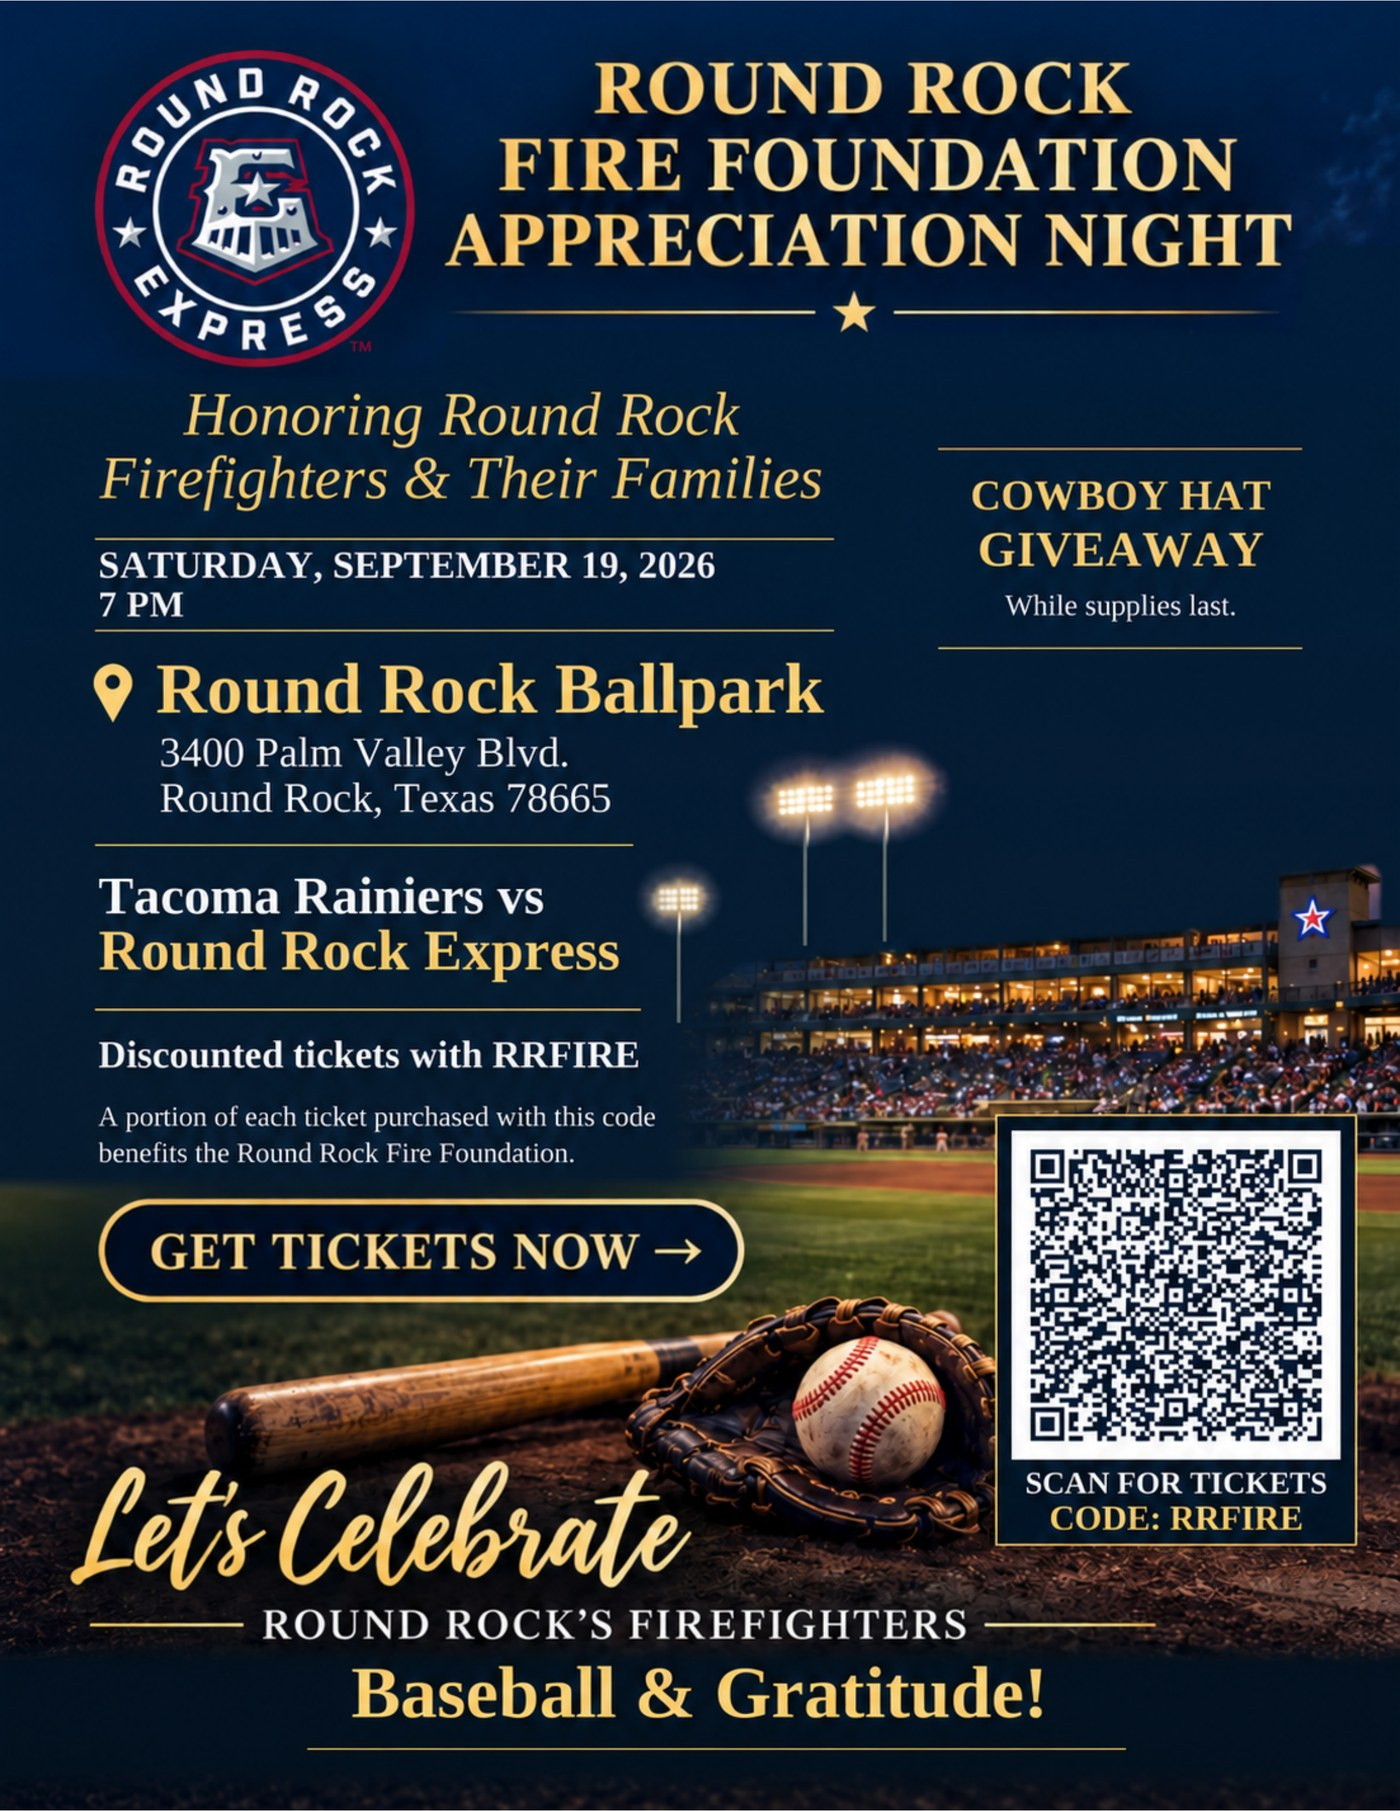
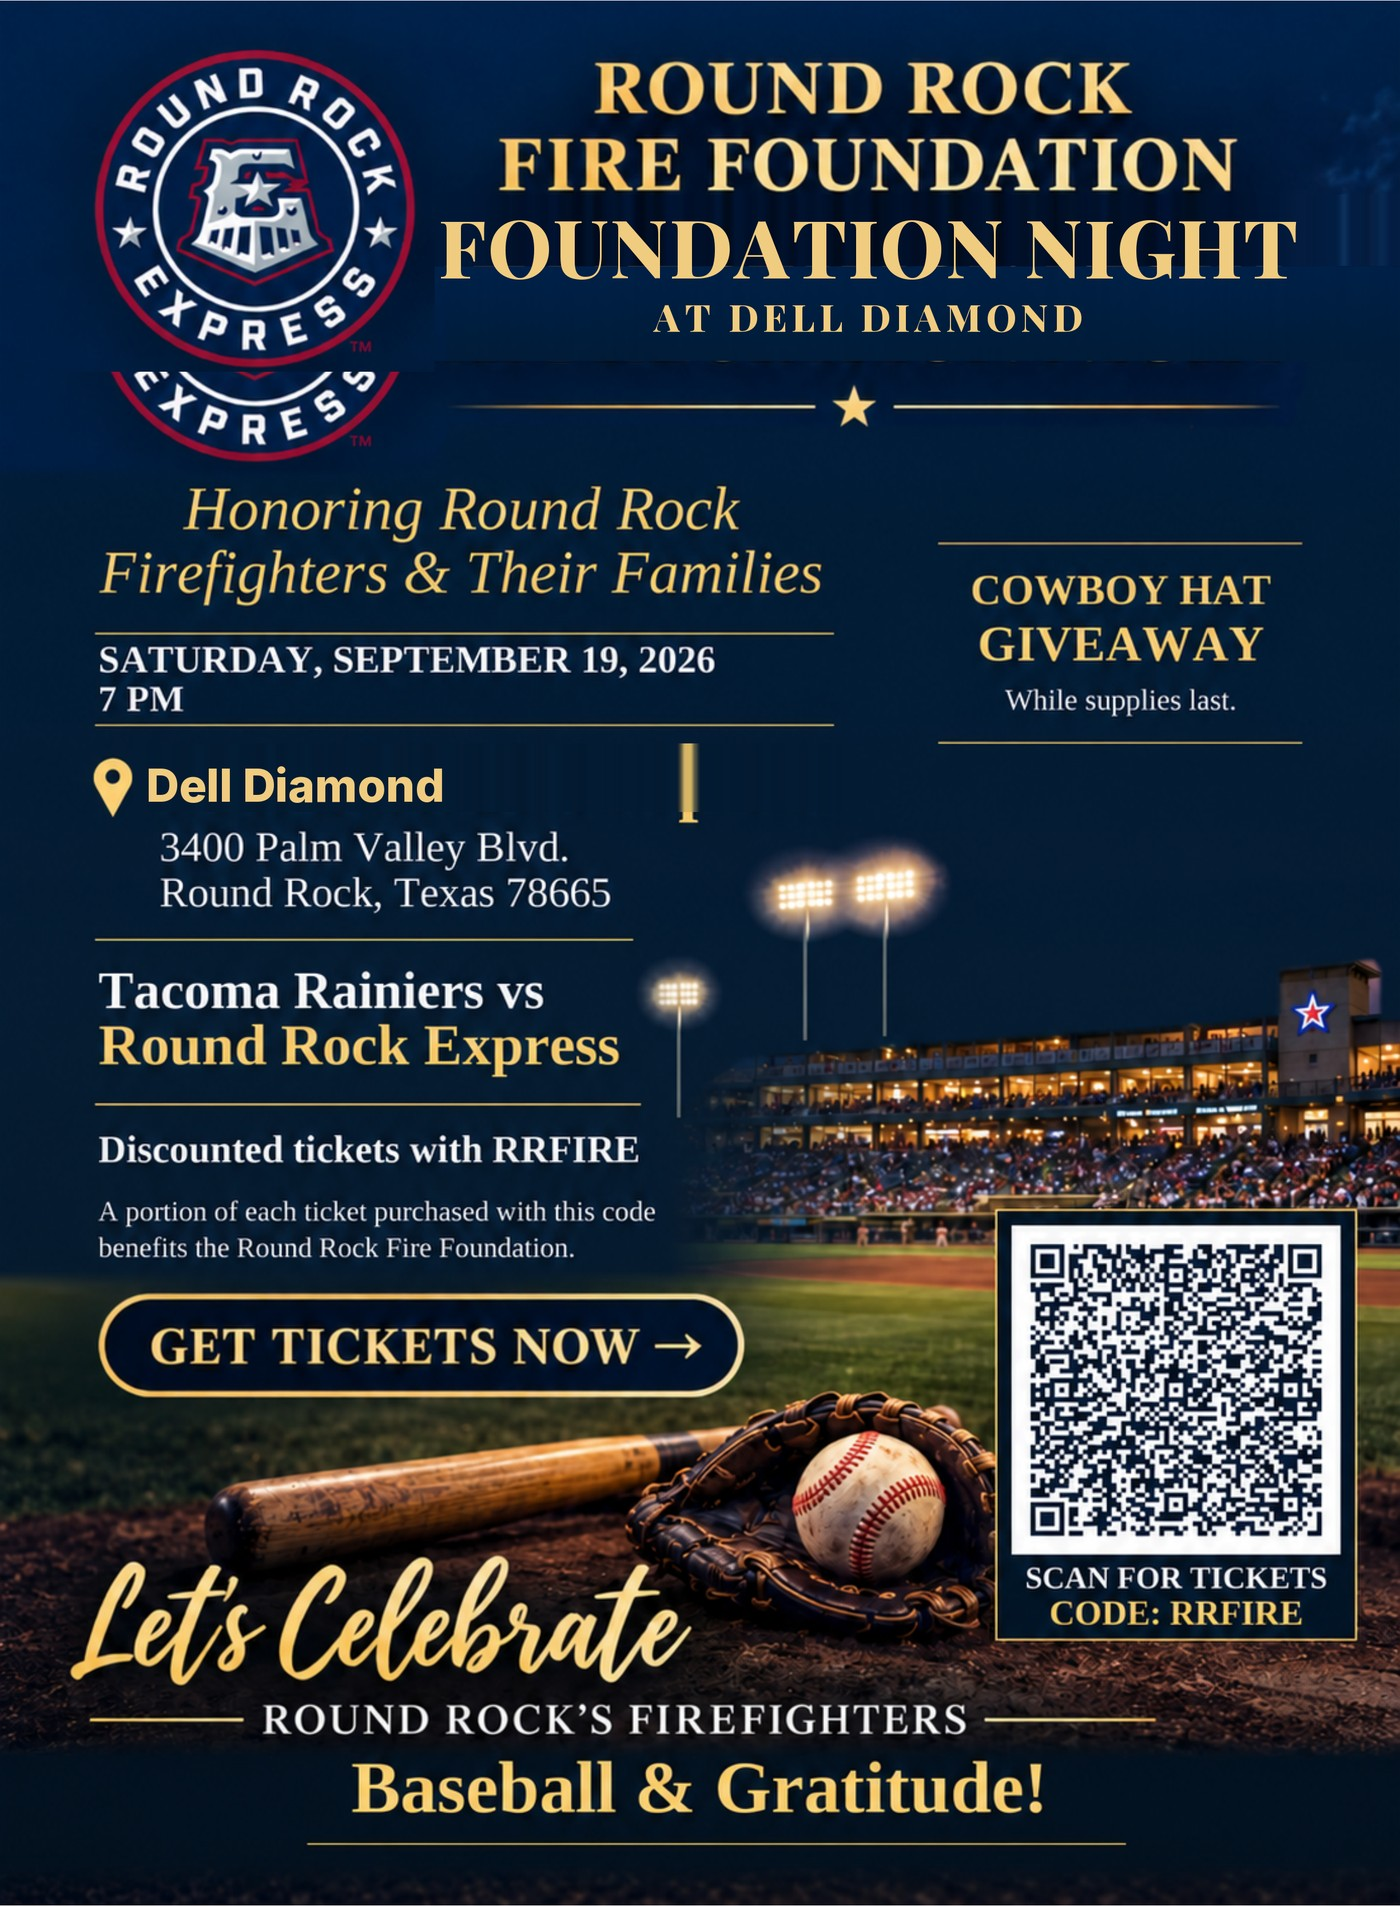
Rename Sept 19 2026 event to Foundation Night at Dell Diamond
- Update title/meta/H1 on express-appreciation-night page
- Update events listing card, homepage popup, and nav menu labels
- Fix flyer and share graphics: title text, venue name, and address
  (Round Rock Ballpark -> Dell Diamond)
- Existing May 29, 2026 Foundation Night past-event page left untouched,
  distinguished by date in all locations

diff --git a/express-appreciation-night/index.html b/express-appreciation-night/index.html
@@ -3,23 +3,23 @@
 <head>
 <meta charset="UTF-8" />
 <meta name="viewport" content="width=device-width, initial-scale=1.0" />
-<title>Round Rock Fire Foundation Appreciation Night — September 19, 2026 | Round Rock Fire Foundation</title>
-<meta name="description" content="Round Rock Fire Foundation Appreciation Night at Dell Diamond — Saturday, September 19, 2026, 7 PM. Tacoma Rainiers vs. Round Rock Express. Use code RRFIRE at checkout — a portion of every ticket benefits the Round Rock Fire Foundation." />
+<title>Foundation Night at Dell Diamond — September 19, 2026 | Round Rock Fire Foundation</title>
+<meta name="description" content="Round Rock Fire Foundation Night at Dell Diamond — Saturday, September 19, 2026, 7 PM. Tacoma Rainiers vs. Round Rock Express. Use code RRFIRE at checkout — a portion of every ticket benefits the Round Rock Fire Foundation." />
 
 <!-- Open Graph (Facebook, iMessage, Slack share previews) -->
 <meta property="og:site_name" content="Round Rock Fire Foundation" />
-<meta property="og:title" content="Round Rock Fire Foundation Appreciation Night · September 19, 2026" />
+<meta property="og:title" content="Foundation Night at Dell Diamond · September 19, 2026" />
 <meta property="og:description" content="Saturday · September 19 · 7 PM. Tacoma Rainiers vs. Round Rock Express. Use code RRFIRE — a portion of every ticket benefits the Round Rock Fire Foundation." />
 <meta property="og:type" content="event" />
 <meta property="og:url" content="https://www.roundrockfirefoundation.org/express-appreciation-night/" />
 <meta property="og:image" content="https://www.roundrockfirefoundation.org/images/express-appreciation-night-sept2026-share.jpg" />
-<meta property="og:image:alt" content="Round Rock Fire Foundation Appreciation Night — Saturday, September 19, 2026 — Use code RRFIRE" />
+<meta property="og:image:alt" content="Round Rock Fire Foundation Night at Dell Diamond — Saturday, September 19, 2026 — Use code RRFIRE" />
 <meta property="og:image:width" content="1200" />
 <meta property="og:image:height" content="630" />
 
 <!-- Twitter / X card -->
 <meta name="twitter:card" content="summary_large_image" />
-<meta name="twitter:title" content="Round Rock Fire Foundation Appreciation Night · September 19, 2026" />
+<meta name="twitter:title" content="Foundation Night at Dell Diamond · September 19, 2026" />
 <meta name="twitter:description" content="Use code RRFIRE — a portion of every ticket benefits the Round Rock Fire Foundation." />
 <meta name="twitter:image" content="https://www.roundrockfirefoundation.org/images/express-appreciation-night-sept2026-share.jpg" />
 
@@ -61,6 +61,15 @@
   text-transform: uppercase;
 }
 .an-title em { color: var(--gold); font-style: italic; text-transform: none; font-weight: 700; }
+.an-title-venue {
+  display: block;
+  font-size: 0.5em;
+  font-style: italic;
+  color: var(--gold);
+  text-transform: none;
+  font-weight: 600;
+  margin-top: 6px;
+}
 
 .an-star-divider {
   display: flex; align-items: center; justify-content: center; gap: 14px;
@@ -254,7 +263,7 @@
   <div class="an-hero-inner">
     <span class="an-eyebrow">Round Rock Fire Foundation · September 19, 2026</span>
 
-    <h1 class="an-title">Appreciation <em>Night</em></h1>
+    <h1 class="an-title">Foundation <em>Night</em><span class="an-title-venue">at Dell Diamond</span></h1>
 
     <div class="an-star-divider"><span>★</span></div>
 
@@ -287,7 +296,7 @@
         <p class="an-code-sub">A portion of each ticket purchased with this code benefits the Round Rock Fire Foundation — supporting firefighter wellness, family assistance, and crisis relief for Round Rock fire families.</p>
         <div class="an-cta-row">
           <a class="btn btn-primary" href="https://mlb.tickets.com/?orgId=58189&agency=MILB_MPV&eventId=27354#/event/E27354/ticketlist/?view=sections&minPrice=15&maxPrice=23&quantity=2&sort=price_desc&ada=false&coupon=RRFIRE&seatSelection=false&onlyCoupon=true&onlyVoucher=false" target="_blank" rel="noopener noreferrer">Get Tickets Now →</a>
-          <a class="btn btn-ghost" href="/images/express-appreciation-night-sept2026-flyer.jpg" download="Round-Rock-Fire-Foundation-Appreciation-Night-Flyer.jpg">Download Flyer</a>
+          <a class="btn btn-ghost" href="/images/express-appreciation-night-sept2026-flyer.jpg" download="Round-Rock-Fire-Foundation-Night-at-Dell-Diamond-Sept2026-Flyer.jpg">Download Flyer</a>
           <a class="btn btn-ghost" href="/events/">See All Events</a>
         </div>
       </div>

diff --git a/assets/appreciation-popup.js b/assets/appreciation-popup.js
@@ -1,7 +1,7 @@
 /**
  * appreciation-popup.js
  *
- * Homepage-only popup promoting the Round Rock Express Appreciation Night
+ * Homepage-only popup promoting the Round Rock Express Foundation Night
  * (Saturday, September 19, 2026). Shows once per browser session, a beat
  * after the page loads, with a link to the event page and the ticket page.
  *
@@ -57,6 +57,7 @@
       '.rrff-apn-title{font-family:"Playfair Display",Georgia,serif;font-weight:700;' +
       'font-size:27px;color:hsl(40,20%,95%);margin:0 0 6px;line-height:1.15;}' +
       '.rrff-apn-title em{color:hsl(43,75%,55%);font-style:italic;}' +
+      '.rrff-apn-venue{display:block;font-size:0.6em;font-style:italic;color:hsl(43,75%,55%);font-weight:600;margin-top:4px;}' +
       '.rrff-apn-sub{font-size:14px;color:hsl(40,10%,72%);margin:0 0 18px;line-height:1.5;}' +
       '.rrff-apn-sub strong{color:hsl(40,20%,95%);}' +
       '.rrff-apn-code{display:inline-block;font-size:12px;font-weight:700;letter-spacing:0.5px;' +
@@ -104,7 +105,7 @@
     overlay.className = 'rrff-apn-overlay';
     overlay.setAttribute('role', 'dialog');
     overlay.setAttribute('aria-modal', 'true');
-    overlay.setAttribute('aria-label', 'Round Rock Express Appreciation Night');
+    overlay.setAttribute('aria-label', 'Round Rock Express Foundation Night at Dell Diamond');
 
     overlay.innerHTML =
       '<div class="rrff-apn-card">' +
@@ -113,7 +114,7 @@
       '  </div>' +
       '  <div class="rrff-apn-body">' +
       '    <p class="rrff-apn-eyebrow">Saturday, September 19, 2026</p>' +
-      '    <h2 class="rrff-apn-title">Appreciation <em>Night</em></h2>' +
+      '    <h2 class="rrff-apn-title">Foundation <em>Night</em><span class="rrff-apn-venue">at Dell Diamond</span></h2>' +
       '    <p class="rrff-apn-sub">Join us at Dell Diamond as the <strong>Round Rock Express</strong> host the Tacoma Rainiers &mdash; honoring our firefighters and their families, with a Cowboy Hat Giveaway while supplies last.</p>' +
       '    <span class="rrff-apn-code">Discount code RRFIRE</span>' +
       '    <div class="rrff-apn-actions">' +

diff --git a/events/index.html b/events/index.html
@@ -329,10 +329,10 @@
 
     <div class="events-list">
 
-      <!-- ============ Event 1: Appreciation Night ============ -->
+      <!-- ============ Event 1: Foundation Night (Sept 2026) ============ -->
       <article class="event-card">
         <div class="event-image">
-          <img src="/images/express-appreciation-night-sept2026-flyer.jpg" alt="Round Rock Fire Foundation Appreciation Night — September 19, 2026 flyer" loading="lazy" />
+          <img src="/images/express-appreciation-night-sept2026-flyer.jpg" alt="Round Rock Fire Foundation Night at Dell Diamond — September 19, 2026 flyer" loading="lazy" />
         </div>
         <div class="event-body">
           <span class="event-tag">Fire Family Night</span>
@@ -340,7 +340,7 @@
             <svg viewBox="0 0 24 24" fill="none" stroke="currentColor" stroke-width="2" stroke-linecap="round" stroke-linejoin="round"><rect x="3" y="5" width="18" height="16" rx="2"/><path d="M3 10h18M8 3v4M16 3v4"/></svg>
             Saturday · September 19, 2026
           </p>
-          <h2 class="event-title">Round Rock Fire Foundation Appreciation Night</h2>
+          <h2 class="event-title">Round Rock Fire Foundation Night at Dell Diamond</h2>
           <p class="event-blurb">
             Honoring Round Rock firefighters and their families at Dell Diamond. Tacoma Rainiers vs. Round Rock Express, first pitch at 7 PM. Use code <strong style="color: var(--gold);">RRFIRE</strong> for discounted tickets — a portion benefits the Foundation.
           </p>

diff --git a/assets/main-nav-rewrite.js b/assets/main-nav-rewrite.js
@@ -28,7 +28,7 @@
     ] },
     { type: 'group', label: 'Our Events', items: [
         { label: 'All Events',                  href: '/events/' },
-        { label: 'Appreciation Night · Sep 19', href: '/express-appreciation-night/' },
+        { label: 'Foundation Night · Sep 19', href: '/express-appreciation-night/' },
         { label: 'Blazing Paddles · Oct 10',    href: 'https://pickleball.roundrockfirefoundation.org/' },
         { label: 'Spouse Conference · Nov 6–8',href: 'https://spouseconference.roundrockfirefoundation.org/' },
     ] },

diff --git a/assets/page-nav.js b/assets/page-nav.js
@@ -26,7 +26,7 @@
       label: 'Our Events',
       items: [
         { label: 'All Events',                   href: '/events/' },
-        { label: 'Appreciation Night · Sep 19',  href: '/express-appreciation-night/' },
+        { label: 'Foundation Night · Sep 19',  href: '/express-appreciation-night/' },
         { label: 'Blazing Paddles · Oct 10',     href: 'https://pickleball.roundrockfirefoundation.org/' },
         { label: 'Spouse Conference · Nov 6–8', href: 'https://spouseconference.roundrockfirefoundation.org/' },
       ],
